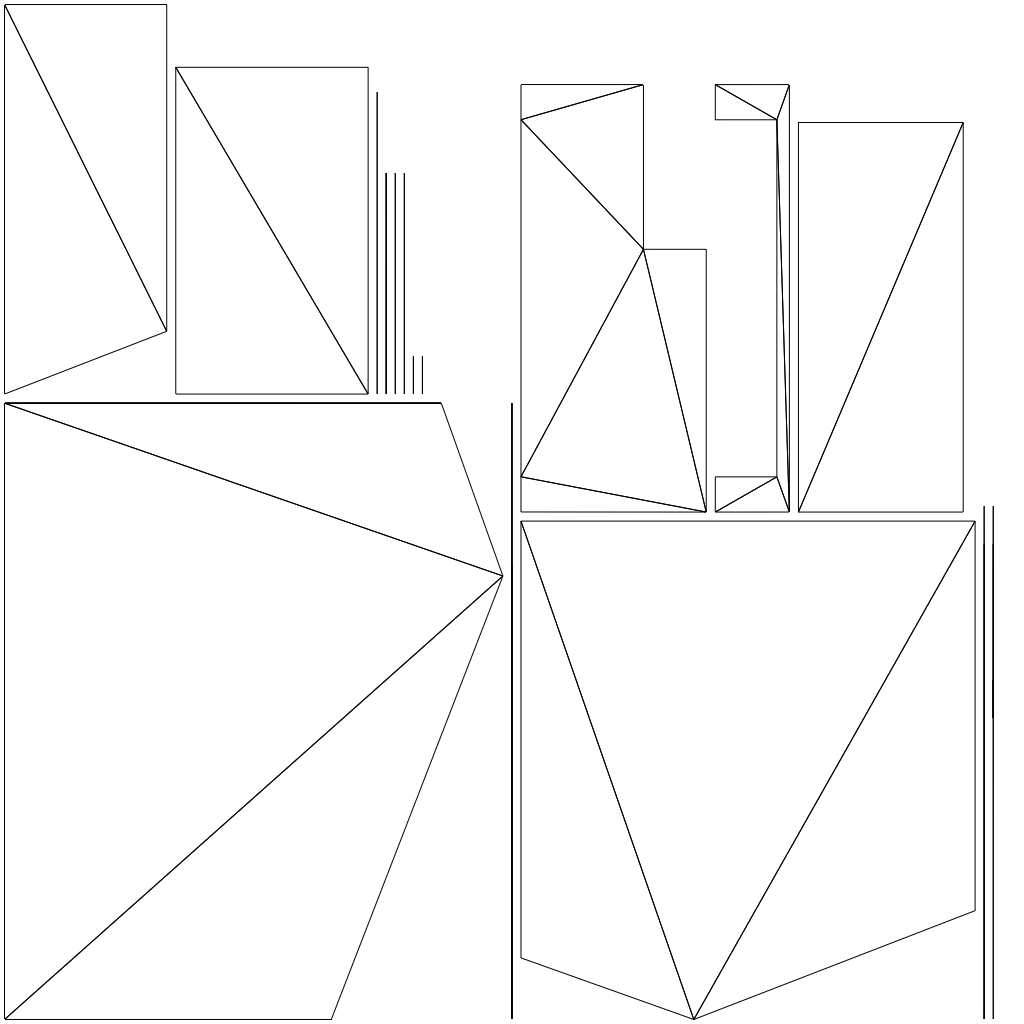
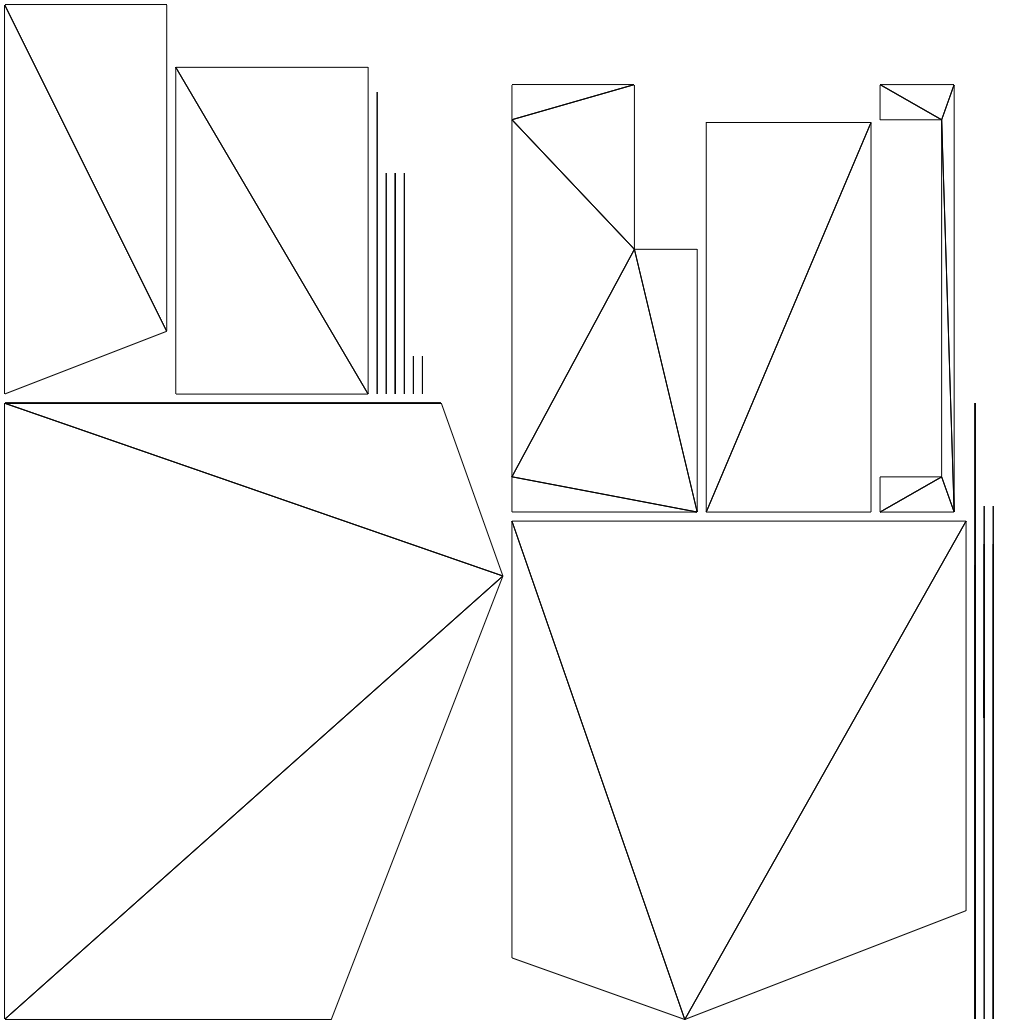
tries on texturing.

diff --git a/texturize.py b/texturize.py
@@ -2,20 +2,6 @@ import bpy
 import os
 import sys
 
-class Vector:
-    def __init__(self, x, y):
-        self.x = x
-        self.y = y
-
-    def __add__(self, other):
-        if isinstance(other, Vector):
-            return Vector(self.x + other.x, self.y + other.y)
-        else:
-            raise ValueError("Unsupported type for addition")
-
-    def __repr__(self):
-        return f"Vector({self.x}, {self.y})"
-
 def parse_args():
     args = sys.argv[sys.argv.index("--") + 1:]
     if len(args) != 2:
@@ -44,54 +30,46 @@ bpy.ops.object.join()
 # Get the merged mesh
 merged_obj = bpy.context.selected_objects[0]
 
-# Create a new material
-mat = bpy.data.materials.new(name="MyMaterial")
+# Get the Z coordinate of the lowest point of the walls
+lowest_z = min([v.co.z for v in merged_obj.data.vertices])
 
-# Assign the material to the object
-if merged_obj.data.materials:
-    # If the merged object already has materials, just use the first one
-    merged_obj.data.materials[0] = mat
-else:
-    # Otherwise, append the material
-    merged_obj.data.materials.append(mat)
-
-# Ensure the material has a node tree
-if mat.node_tree is None:
-    mat.use_nodes = True
-
-# Clear existing nodes and create a principled BSDF node
-nodes = mat.node_tree.nodes
-for node in nodes:
-    nodes.remove(node)
-
-principled_node = nodes.new(type='ShaderNodeBsdfPrincipled')
-output_node = nodes.new(type='ShaderNodeOutputMaterial')
-output_node.location = principled_node.location + Vector(300, 0)
-
-# Connect texture node to principled BSDF node
-texture_node = nodes.new('ShaderNodeTexImage')
-mat.node_tree.links.new(texture_node.outputs[0], principled_node.inputs['Base Color'])
-
-# Load texture image
-bpy.ops.image.open(filepath=os.path.join(working_dir, 'Images', 'texture.png'))
-texture_image = bpy.data.images["texture.png"]
-texture_node.image = texture_image
-
-# Create UV map from the PNG image
-uv_map = bpy.data.images.load(os.path.join(working_dir, "uv_map.png"))
-
-# Create UV mapping for the object
+# Select vertices belonging to the floor
 bpy.context.view_layer.objects.active = merged_obj
 bpy.ops.object.mode_set(mode='EDIT')
-bpy.ops.uv.unwrap(method='ANGLE_BASED', margin=0.001)
+bpy.ops.mesh.select_all(action='DESELECT')
+
+for vert in merged_obj.data.vertices:
+    if vert.co.z <= lowest_z:
+        vert.select = True
+
+# Invert selection to exclude the floor from UV unwrapping
+bpy.ops.mesh.select_all(action='INVERT')
+
+# Unwrap UV for the merged mesh
+bpy.ops.object.mode_set(mode='OBJECT')
+bpy.context.view_layer.objects.active = merged_obj
+bpy.ops.object.mode_set(mode='EDIT')
+bpy.ops.mesh.select_all(action='SELECT')
+bpy.ops.uv.smart_project(angle_limit=66, island_margin=0.02)
 bpy.ops.object.mode_set(mode='OBJECT')
 
-# Apply the UV map
-merged_obj.data.uv_layers.new(name="UVMap")
-uv_layer = merged_obj.data.uv_layers["UVMap"]
-uv_layer.active = True
-uv_layer.active_render = True
+image = bpy.data.images.load(filepath=os.path.join(working_dir, "texture.png"))
+material = bpy.data.materials.new(name="Texture")
 
-# Export COLLADA model with textures and UV map
-bpy.ops.wm.collada_export(filepath=model,
-                           selected=True, include_uv_textures=True, include_materials=True)
+material.use_nodes = True
+bsdf = material.node_tree.nodes["Principled BSDF"]
+texImage = material.node_tree.nodes.new('ShaderNodeTexImage')
+texImage.image = image
+
+material.node_tree.links.new(bsdf.inputs['Base Color'], texImage.outputs['Color'])
+if merged_obj.data.materials:
+    merged_obj.data.materials[0] = material
+
+merged_obj.data.materials.append(material)
+
+# Export the Collada-File
+collada_filepath = os.path.join(working_dir, "texturized_model.dae")
+bpy.ops.wm.collada_export(filepath=collada_filepath)
+
+# Quit Blender
+bpy.ops.wm.quit_blender()

diff --git a/create_uv.py b/create_uv.py
@@ -54,10 +54,18 @@ bpy.ops.uv.smart_project(angle_limit=66, island_margin=0.02)
 bpy.ops.object.mode_set(mode='OBJECT')
 
 
-# Save the UV layout
+# Export the UV layout
 uv_map_filepath = os.path.join(working_dir, "uv_map.png")
+bpy.ops.object.mode_set(mode='OBJECT')
+bpy.ops.object.select_all(action='DESELECT')
+merged_obj.select_set(True)
+bpy.context.view_layer.objects.active = merged_obj
 bpy.ops.object.mode_set(mode='EDIT')
-bpy.ops.uv.export_layout(filepath=uv_map_filepath, opacity=0, check_existing=False, modified=False)
+bpy.ops.mesh.select_all(action='SELECT')
+bpy.ops.uv.unwrap(method='ANGLE_BASED', margin=0.02)
+bpy.ops.object.mode_set(mode='OBJECT')
+bpy.ops.object.mode_set(mode='EDIT')
+bpy.ops.uv.export_layout(filepath=uv_map_filepath, check_existing=False, modified=False, opacity=0, size=(2048, 2048))
 
 print("UV map saved at:", uv_map_filepath)
 
